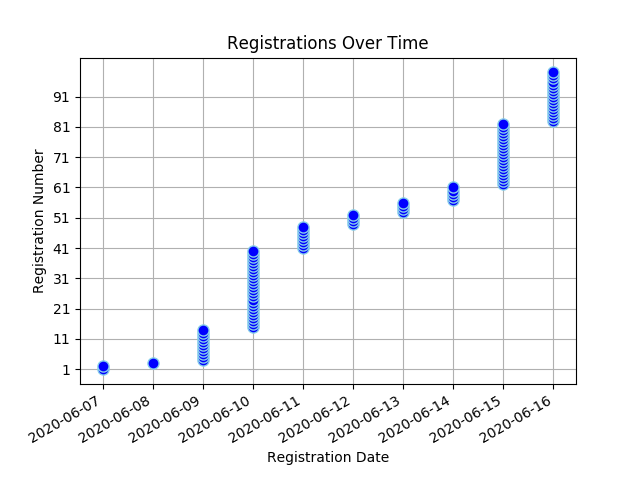
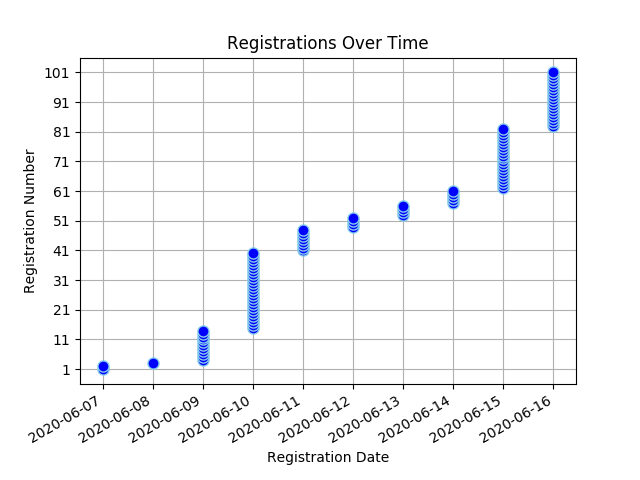
Registree stats backup on Tue Jun 16 19:36:46 SAST 2020

Changed region(s): [[0.0312, 0.1562, 0.9062, 0.7188], [0.0625, 0.125, 0.0938, 0.1562]]

diff --git a/content/virtual_conf_stats/_index.md b/content/virtual_conf_stats/_index.md
@@ -16,7 +16,7 @@ draft: false
 </head>
 <body>
 <h1 style="color: #000000;">Virtual Convention Registration Stats</h1>
-<ul><li><strong>Number of Registrees</strong>: 99</li>
+<ul><li><strong>Number of Registrees</strong>: 101</li>
 </ul><a href="/docs/virtual_convention_stats.csv">Download registration details here</a>
 <h2>Registrees</h2>
 <table id="registreeTable" class="tablesorter" border="1" padding=1>
@@ -52,6 +52,7 @@ Club
 <tr><td>graham, mike</td><td>Nelspruit</td></tr>
 <tr><td>Graham, Valerie</td><td>Nelspruit</td></tr>
 <tr><td>Grater, Viv</td><td>Newlands</td></tr>
+<tr><td>Griffith, David</td><td>The Wilds</td></tr>
 <tr><td>Haywood, Barbara</td><td>Eden 410W</td></tr>
 <tr><td>Herzfeld, Evelyn</td><td>Edenvale</td></tr>
 <tr><td>Hobbs, Avril</td><td>North Durban</td></tr>
@@ -128,6 +129,7 @@ Club
 <tr><td>Wallendorf, Gunther</td><td>Krugersdorp Lions Club</td></tr>
 <tr><td>Wangari, Joyce</td><td>Eden</td></tr>
 <tr><td>Wedderburn, Del</td><td>Clearwater Cyber Club</td></tr>
+<tr><td>Wilson, Jim</td><td>Alberton</td></tr>
 <tr><td>Wilter-Sturges, Meredith</td><td>Lions Club of Midrand</td></tr>
 <tr><td>Young, Judy</td><td>Durbanville</td></tr>
 
